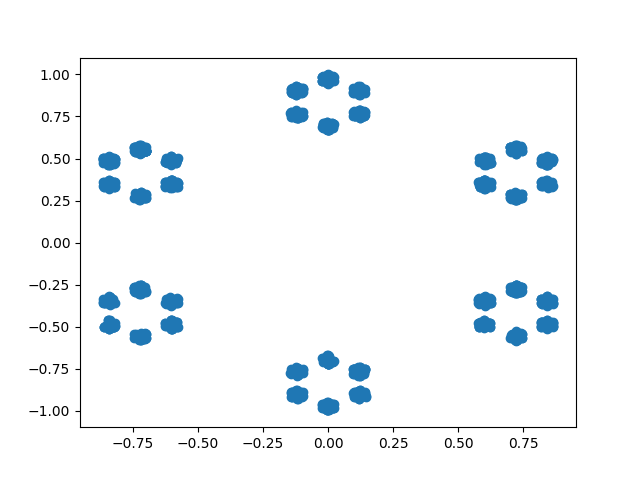
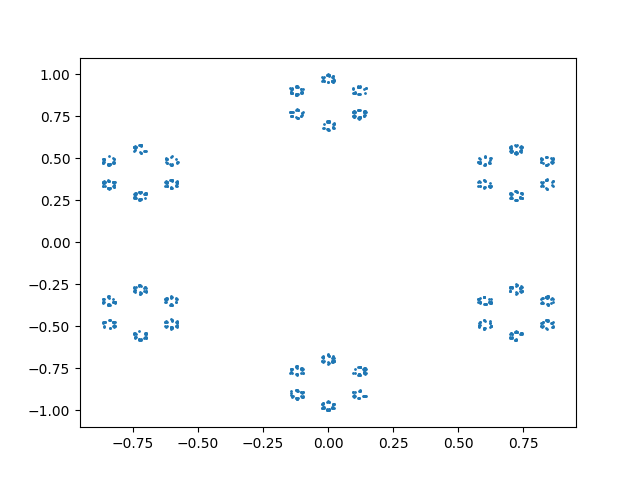
Reduced size of points.

diff --git a/src/sierpinski_hexagon.py b/src/sierpinski_hexagon.py
@@ -20,7 +20,7 @@ def main(n):
         ys[i] = x[1]
         r = random.randint(0, 5)
         x = w(x, r)
-    plt.scatter(xs[4:], ys[4:])
+    plt.scatter(xs[4:], ys[4:], 1)
     plt.savefig('../img/sierpinski_hexagon.png')
     plt.show()
 
